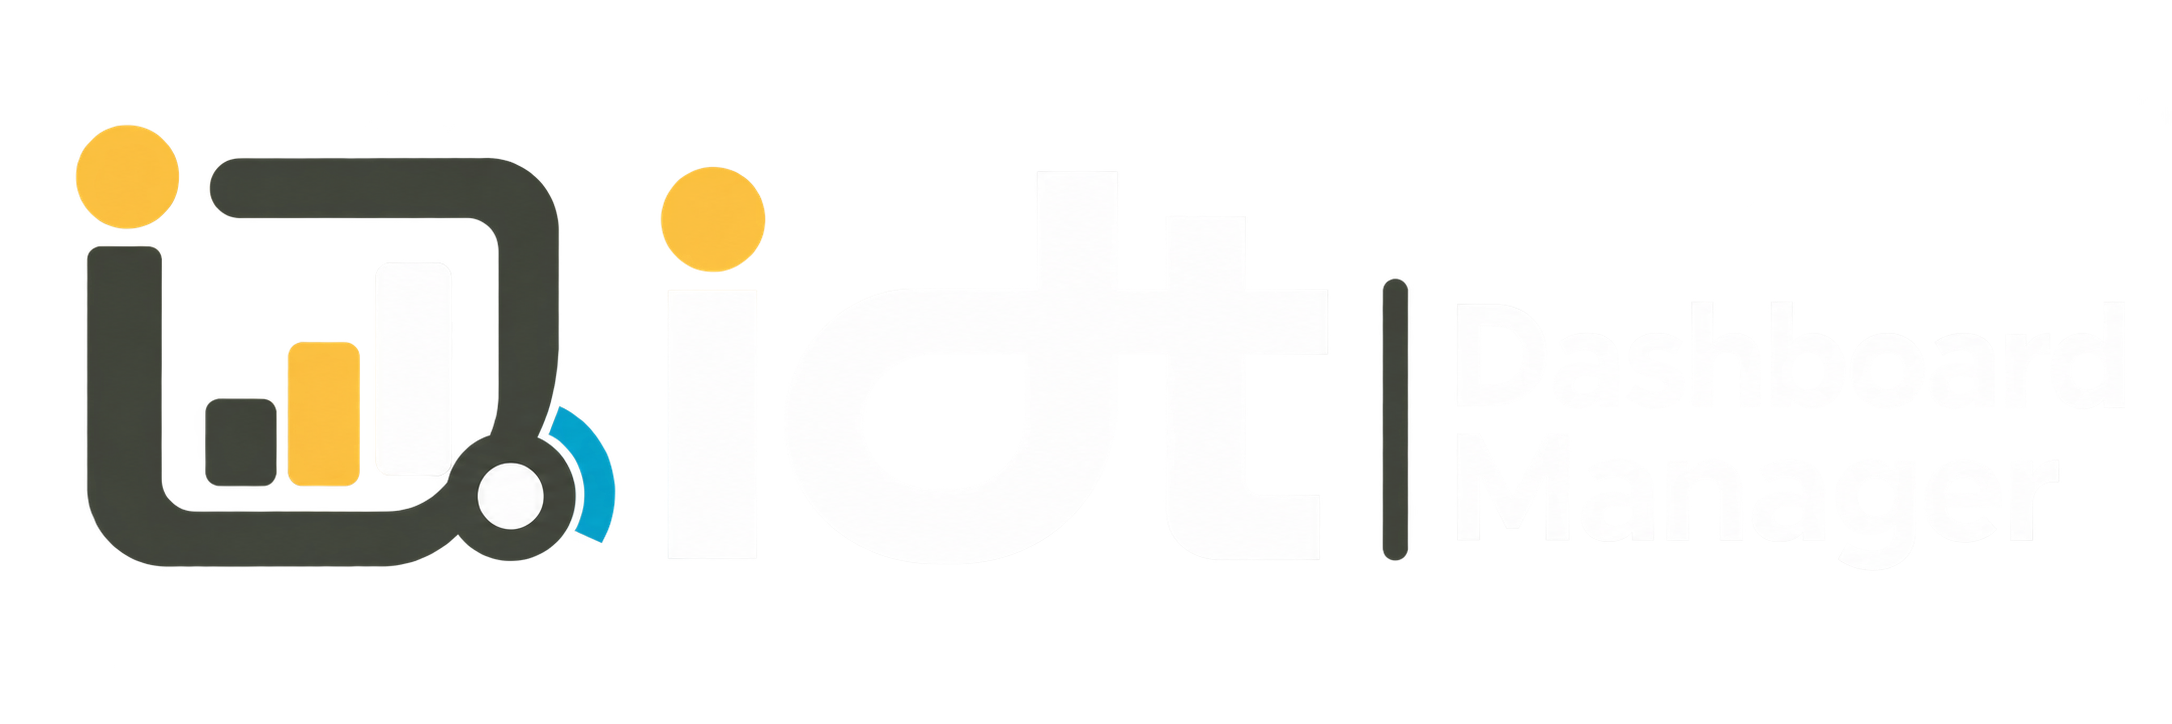
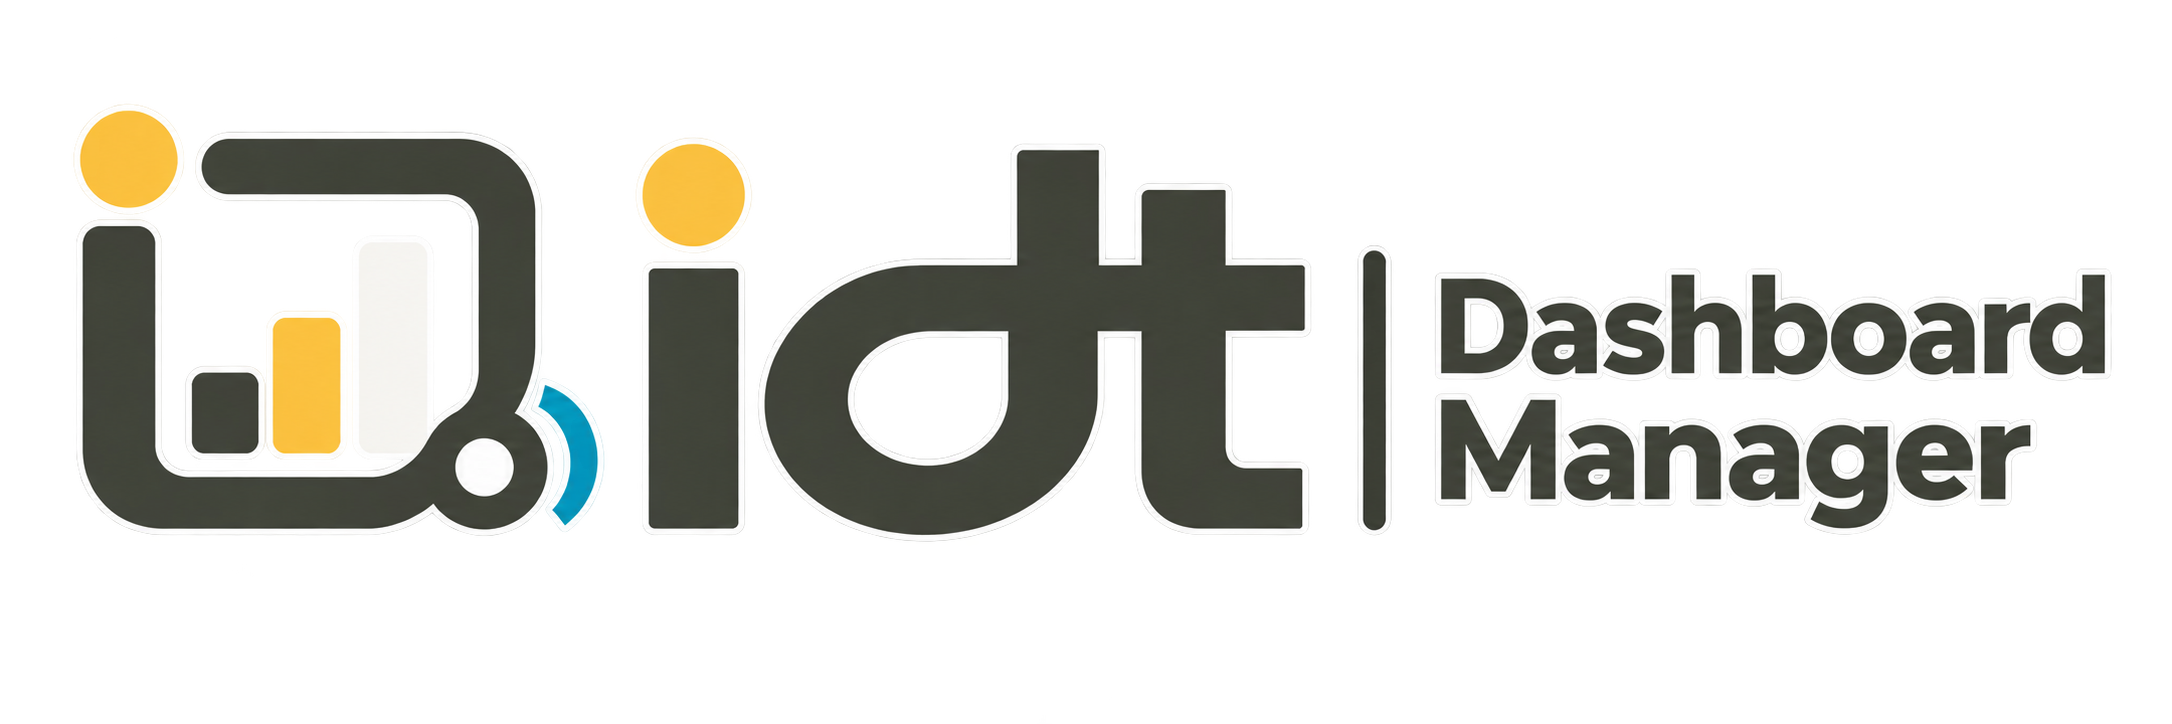
feat: add header text color and stroke options for improved readability and navigation update with branding change

Changed region(s): [[0.0308, 0.1519, 0.9871, 0.7901]]

diff --git a/superset-frontend/plugins/plugin-chart-hello-world/src/SupersetPluginChartHelloWorld.tsx b/superset-frontend/plugins/plugin-chart-hello-world/src/SupersetPluginChartHelloWorld.tsx
@@ -76,6 +76,19 @@ function colorPropToHex(value: RgbaColor | string | undefined, fallback: string)
   return fallback;
 }
 
+/** Faux text-stroke via a ring of eight offset shadow copies — works in
+ * every browser, unlike `-webkit-text-stroke` (Chromium/Safari only),
+ * which the header applies alongside this as a crisper enhancement where
+ * it's supported. */
+function strokeTextShadow(color: string): string {
+  const offsets = [
+    [-1, -1], [0, -1], [1, -1],
+    [-1, 0], [1, 0],
+    [-1, 1], [0, 1], [1, 1],
+  ];
+  return offsets.map(([x, y]) => `${x}px ${y}px 0 ${color}`).join(', ');
+}
+
 const filterSelectStyle: React.CSSProperties = {
   fontSize: 11,
   fontWeight: 600,
@@ -300,6 +313,9 @@ export default function SupersetPluginChartHelloWorld(
     boldText,
     headerFontSize,
     headerText,
+    headerTextColor,
+    headerStroke,
+    headerStrokeColor,
     sceneDataJson,
     dayBackgroundColor,
     nightBackgroundColor,
@@ -588,8 +604,19 @@ export default function SupersetPluginChartHelloWorld(
     if (savedView) {
       const savedPosition = new THREE.Vector3(...savedView.position);
       const savedTarget = new THREE.Vector3(...savedView.target);
+      // `up` didn't exist on defaultView before this fix — falls back to
+      // world-up for anything saved prior, same as it always implicitly was.
+      const savedUp = new THREE.Vector3(...(savedView.up || [0, 1, 0]));
       const dist = Math.max(savedPosition.distanceTo(savedTarget), 1e-4);
       camera.position.copy(savedPosition);
+      // Restoring `up` before `lookAt` matters: TrackballControls lets the
+      // camera roll freely while orbiting (that's what makes rotating past
+      // the zenith/nadir possible), so by the time this runs `camera.up`
+      // may have drifted away from whatever it was when the view was saved
+      // — without resetting it first, `lookAt` recomputes the view using
+      // today's (possibly rolled) up instead of the one the user actually
+      // set as default, and the model comes back tilted.
+      camera.up.copy(savedUp);
       camera.near = Math.max(dist / 200, 1e-6);
       camera.far = dist * 30 + radius * 10;
       camera.updateProjectionMatrix();
@@ -601,6 +628,12 @@ export default function SupersetPluginChartHelloWorld(
       controls.update();
       return;
     }
+
+    // Reset roll for the auto-fit path too — without a saved default view,
+    // "reset" should always mean the same clean, level framing, not
+    // whatever roll TrackballControls' free rotation happened to leave
+    // `camera.up` at.
+    camera.up.set(0, 1, 0);
 
     // Pleasant three-quarter view. The camera always sits exactly `distance`
     // along this direction from the centre.
@@ -663,18 +696,28 @@ export default function SupersetPluginChartHelloWorld(
   frameCameraRef.current = frameCamera;
 
   /**
-   * Points the camera at `center` from `distance` away, along the same
-   * three-quarter angle `frameCamera` uses for the whole-model fit. Shared
-   * by `flyToLocation` and `focusOnDevice`, which only differ in how they
-   * compute `center`/`distance`.
+   * Points the camera at `center` from `distance` away, along `direction`
+   * (defaults to the same three-quarter angle `frameCamera` uses for the
+   * whole-model fit). Shared by `flyToLocation` and `focusOnDevice`, which
+   * only differ in how they compute `center`/`distance`/`direction`.
    */
-  function pointCameraAt(center: THREE.Vector3, distance: number) {
+  function pointCameraAt(
+    center: THREE.Vector3,
+    distance: number,
+    direction: THREE.Vector3 = new THREE.Vector3(1, 0.55, 1),
+  ) {
     const camera = cameraRef.current;
     const controls = controlsRef.current;
     if (!camera || !controls) return;
 
-    const direction = new THREE.Vector3(1, 0.55, 1).normalize();
-    camera.position.copy(center).add(direction.clone().multiplyScalar(distance));
+    // Same drift-reset as frameCamera's auto-fit path: without this, a
+    // jump-to-location/sensor-focus shot inherits whatever roll
+    // TrackballControls' free rotation left the camera at, instead of
+    // coming in level.
+    camera.up.set(0, 1, 0);
+
+    const dir = direction.clone().normalize();
+    camera.position.copy(center).add(dir.multiplyScalar(distance));
     camera.near = Math.max(distance / 200, 1e-6);
     camera.far = distance * 30 + distance * 10;
     camera.updateProjectionMatrix();
@@ -721,7 +764,11 @@ export default function SupersetPluginChartHelloWorld(
         ? device.markerSize
         : worldSize * 0.012;
     const distance = Math.max(radius * 10, worldSize * 0.06);
-    pointCameraAt(center, distance);
+    // Flatter and more side-on than the general three-quarter angle
+    // (lower Y, more weighted to X) — a sensor focused dead-on/from-above
+    // reads as staring straight into the marker; coming in more from the
+    // side keeps its pole/orientation and surrounding context legible.
+    pointCameraAt(center, distance, new THREE.Vector3(1.4, 0.35, 0.5));
   }
   // The click handler below lives in an effect keyed on `pickTarget`, not on
   // every render, so it can't just close over `focusOnDevice` directly (that
@@ -790,6 +837,7 @@ export default function SupersetPluginChartHelloWorld(
     emitSetDefaultView({
       position: [camera.position.x, camera.position.y, camera.position.z],
       target: [controls.target.x, controls.target.y, controls.target.z],
+      up: [camera.up.x, camera.up.y, camera.up.z],
     });
     setDefaultViewSaved(true);
     window.setTimeout(() => setDefaultViewSaved(false), 1800);
@@ -895,7 +943,53 @@ export default function SupersetPluginChartHelloWorld(
     controls.panSpeed = 0.6;
     controls.staticMoving = false;
     controls.dynamicDampingFactor = 0.15;
+    // TrackballControls' built-in wheel zoom always dollies toward/away from
+    // the fixed orbit target (the model's centre), which makes zooming in on
+    // anything off-centre awkward — you zoom toward the middle of the model,
+    // not toward whatever's under the cursor. Replaced below with a custom
+    // wheel handler that raycasts to find what's under the cursor and dollies
+    // toward that instead.
+    controls.noZoom = true;
     controlsRef.current = controls;
+
+    // Scroll-to-zoom, but toward whatever's under the cursor rather than the
+    // fixed orbit target — raycasts the model/markers at the pointer, and if
+    // it hits something, dollies toward that point and gradually re-centres
+    // the orbit target on it too (so a follow-up drag orbits around the area
+    // just zoomed into, not the model's original centre). Falls back to the
+    // old target-based zoom when the cursor isn't over the model at all
+    // (e.g. zooming out from empty space) — the sensible default there.
+    const handleWheelZoom = (event: WheelEvent) => {
+      const cam = cameraRef.current;
+      const ctrl = controlsRef.current;
+      if (!cam || !ctrl) return;
+      event.preventDefault();
+
+      const hit = [
+        ...raycastModelAt(event.clientX, event.clientY),
+        ...raycastMarkersAt(event.clientX, event.clientY),
+      ].sort((a, b) => a.distance - b.distance)[0];
+      const focusPoint = hit ? hit.point : ctrl.target.clone();
+
+      // Smooth exponential dolly: positive deltaY (scroll down) zooms out,
+      // negative zooms in — feels closer to native trackpad/wheel zoom than
+      // a fixed-step in/out factor.
+      const factor = Math.exp(event.deltaY * 0.0012);
+      const offset = cam.position.clone().sub(focusPoint);
+      const nextDistance = Math.min(
+        Math.max(offset.length() * factor, ctrl.minDistance),
+        ctrl.maxDistance,
+      );
+      offset.setLength(nextDistance);
+      cam.position.copy(focusPoint).add(offset);
+
+      // Partial blend, not a hard snap, so continuing to scroll homes in on
+      // the cursor's point smoothly instead of the pivot "teleporting" there
+      // in one jump.
+      ctrl.target.lerp(focusPoint, 0.12);
+      ctrl.update();
+    };
+    renderer.domElement.addEventListener('wheel', handleWheelZoom, { passive: false });
 
     clockRef.current = new THREE.Clock();
     const animate = () => {
@@ -919,6 +1013,7 @@ export default function SupersetPluginChartHelloWorld(
 
     return () => {
       cancelAnimationFrame(animationFrameRef.current);
+      renderer.domElement.removeEventListener('wheel', handleWheelZoom);
       controls.dispose();
       renderer.dispose();
       if (container.contains(renderer.domElement)) {
@@ -1299,9 +1394,19 @@ export default function SupersetPluginChartHelloWorld(
           zIndex: 2,
           fontSize: currentFontSize,
           fontWeight: boldText ? 700 : 400,
-          color: '#0f172a',
+          color: colorPropToHex(headerTextColor, '#0f172a'),
           letterSpacing: '-0.02em',
-          textShadow: '0 1px 2px rgba(255,255,255,0.8)',
+          textShadow: headerStroke
+            ? // Faux stroke: eight offset copies of the text in the stroke
+              // colour, layered underneath the real text via the shadow
+              // stack. `-webkit-text-stroke` alone renders crisper but only
+              // works in Chromium/Safari, so it's paired with this shadow
+              // stack (below) as the everywhere-compatible fallback/base.
+              strokeTextShadow(colorPropToHex(headerStrokeColor, '#ffffff'))
+            : '0 1px 2px rgba(255,255,255,0.8)',
+          WebkitTextStroke: headerStroke
+            ? `1px ${colorPropToHex(headerStrokeColor, '#ffffff')}`
+            : undefined,
           pointerEvents: 'none',
         }}
       >

diff --git a/superset-frontend/plugins/plugin-chart-hello-world/src/plugin/controlPanel.ts b/superset-frontend/plugins/plugin-chart-hello-world/src/plugin/controlPanel.ts
@@ -282,6 +282,18 @@ const config: ControlPanelConfig = {
         ],
         [
           {
+            name: 'header_text_color',
+            config: {
+              type: 'ColorPickerControl',
+              default: { r: 15, g: 23, b: 42, a: 1 },
+              renderTrigger: true,
+              label: t('Header Text Color'),
+              description: t('Colour of the header caption text.'),
+            },
+          },
+        ],
+        [
+          {
             name: 'bold_text',
             config: {
               type: 'CheckboxControl',
@@ -289,6 +301,30 @@ const config: ControlPanelConfig = {
               renderTrigger: true,
               default: true,
               description: t('A checkbox to make the header bold'),
+            },
+          },
+          {
+            name: 'header_stroke',
+            config: {
+              type: 'CheckboxControl',
+              label: t('Header Text Stroke'),
+              renderTrigger: true,
+              default: false,
+              description: t(
+                'Outlines the header text so it stays readable over a busy or similarly-coloured background.',
+              ),
+            },
+          },
+        ],
+        [
+          {
+            name: 'header_stroke_color',
+            config: {
+              type: 'ColorPickerControl',
+              default: { r: 255, g: 255, b: 255, a: 1 },
+              renderTrigger: true,
+              label: t('Header Text Stroke Color'),
+              description: t('Only used when Header Text Stroke is on.'),
             },
           },
         ],

diff --git a/superset-frontend/plugins/plugin-chart-hello-world/src/types.ts b/superset-frontend/plugins/plugin-chart-hello-world/src/types.ts
@@ -86,6 +86,9 @@ export interface SceneData {
   defaultView?: {
     position: [number, number, number];
     target: [number, number, number];
+    /** Camera "up" vector at save time — see the matching comment on
+     * `DefaultView` in sensorEditorBridge.ts for why this is needed. */
+    up: [number, number, number];
   };
   /** Saved camera bookmarks — named points in the model the viewer's
    * Location filter can jump the camera to. */
@@ -132,6 +135,13 @@ export interface RgbaColor {
 
 interface SupersetPluginChartHelloWorldCustomizeProps {
   headerText: string;
+  /** Header caption colour. Same {r,g,b,a} | hex acceptance as the
+   * background colour props, for the same backward-compatibility reason. */
+  headerTextColor?: RgbaColor | string;
+  /** Outlines the header text for readability over a busy/similar-coloured
+   * background. Off by default (matches the previous, stroke-less look). */
+  headerStroke?: boolean;
+  headerStrokeColor?: RgbaColor | string;
   sceneDataJson: string;
   /** Viewer background while Day mode is active. Accepts the ColorPickerControl's
    * {r,g,b,a} shape, or a plain hex string for backward compatibility with

diff --git a/superset-frontend/plugins/plugin-chart-hello-world/src/plugin/transformProps.ts b/superset-frontend/plugins/plugin-chart-hello-world/src/plugin/transformProps.ts
@@ -25,6 +25,9 @@ export default function transformProps(chartProps: ChartProps) {
     boldText,
     headerFontSize,
     headerText,
+    headerTextColor,
+    headerStroke,
+    headerStrokeColor,
     sceneDataJson,
     dayBackgroundColor,
     nightBackgroundColor,
@@ -55,6 +58,9 @@ export default function transformProps(chartProps: ChartProps) {
     boldText,
     headerFontSize,
     headerText,
+    headerTextColor,
+    headerStroke: Boolean(headerStroke),
+    headerStrokeColor,
     sceneDataJson,
     dayBackgroundColor,
     nightBackgroundColor,

diff --git a/superset-frontend/plugins/plugin-chart-hello-world/src/sensorEditorBridge.ts b/superset-frontend/plugins/plugin-chart-hello-world/src/sensorEditorBridge.ts
@@ -76,6 +76,12 @@ type StateListener = () => void;
 export interface DefaultView {
   position: Position3;
   target: Position3;
+  /** Camera "up" vector at save time. TrackballControls (unlike
+   * OrbitControls) lets the camera roll freely during free rotation, so
+   * without capturing/restoring this too, returning to a saved
+   * position+target can still come out tilted relative to how it looked
+   * when the user set it as default. */
+  up: Position3;
 }
 type DefaultViewListener = (view: DefaultView) => void;
 
